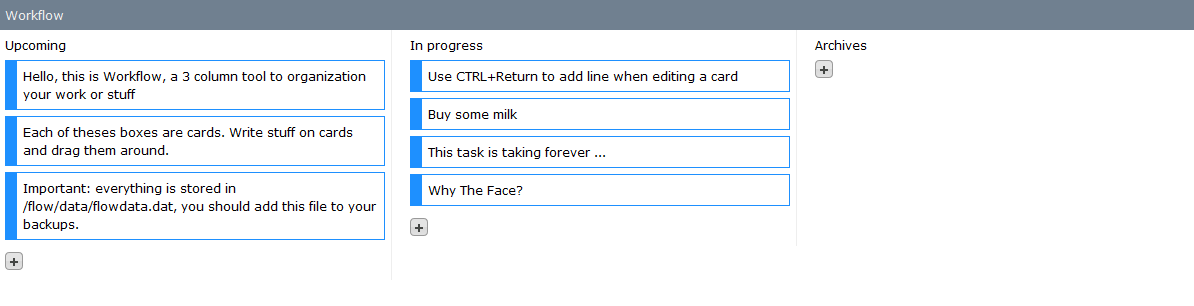
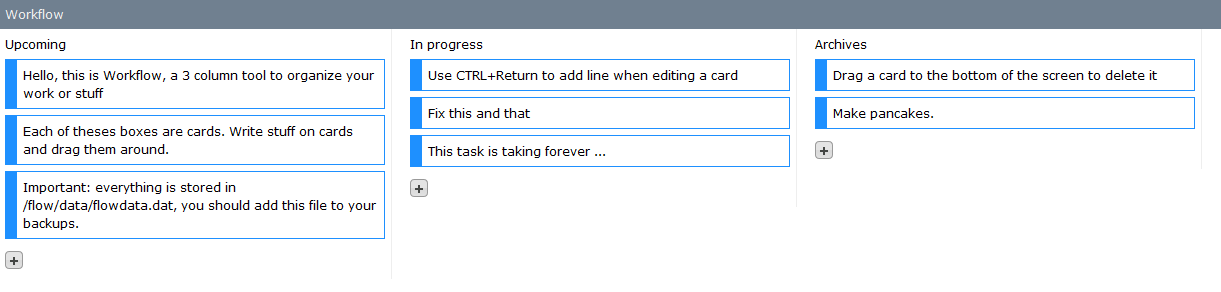
fix default values

Changed region(s): [[0.0, 0.0925, 1.0, 0.9247], [0.3409, 0.7089, 0.3719, 0.7705], [0.0, 0.0308, 0.062, 0.0616]]

diff --git a/workflow/data.php b/workflow/data.php
@@ -28,6 +28,7 @@ class Data
 		$data->columns = (array) $data->columns;
 		$data->cards = (array) $data->cards;
 
+		return true;
 	}
 
 	function save() {
@@ -66,7 +67,7 @@ class Data
 					'id'      	=> 1,
 					'column_id'	=> 1,
 					'order'		=> 1,
-					'content'	=> 'Hello, this is Workflow, a 3 column tool to organization your work or stuff'
+					'content'	=> 'Hello, this is Workflow, a 3 column tool to organize your work or stuff'
 				),
 				array(
 					'id'     	=> 2,
@@ -90,7 +91,7 @@ class Data
 					'id'      	=> 5,
 					'column_id'	=> 2,
 					'order'		=> 1,
-					'content' => 'Buy some milk'
+					'content' => 'Fix this and that'
 				),
 				array(
 					'id'      	=> 6,
@@ -100,9 +101,15 @@ class Data
 				),
 				array(
 					'id'		=> 7,
-					'column_id'	=> 2,
-					'order'		=> 3,
-					'content'	=> 'Why The Face?'
+					'column_id'	=> 3,
+					'order'		=> 2,
+					'content'	=> 'Make pancakes.'
+				),
+				array(
+					'id'		=> 8,
+					'column_id'	=> 3,
+					'order'		=> 1,
+					'content'	=> 'Drag a card to the bottom of the screen to delete it'
 				)
 			)
 
